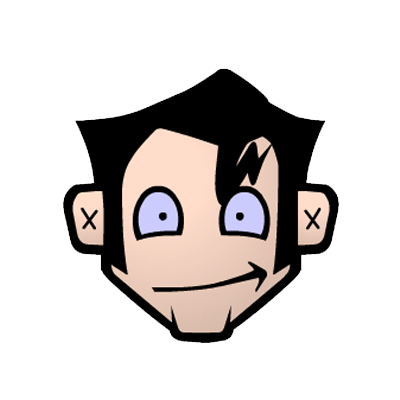
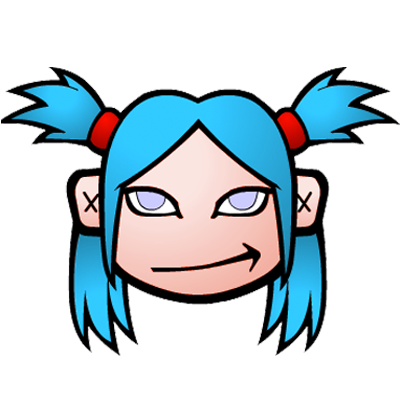
Old commit not pushed

diff --git a/templates/index.html b/templates/index.html
@@ -45,7 +45,7 @@
           <span class="icon"></span>
           <h3>Johnny <em>Free Edition</em></h3>
           <p class="copy">25 year old, interested in computers and technogly.</p>
-          <img src="https://dl.dropboxusercontent.com/u/7968133/profile-a.png" class="img" alt="" />
+          <img src="https://dl.dropboxusercontent.com/u/7968133/profile-b.png" class="img" alt="" />
           <ul>
             <li>Minimal Excercise</li>
             <li>Unamarried</li>
@@ -56,7 +56,7 @@
           <span class="icon"></span>
           <h3>Emily<em>Standard</em></h3>
           <p class="copy">30 year old, single business woman.</p>
-          <img src="https://dl.dropboxusercontent.com/u/7968133/profile-b.png" class="img" alt="" />
+          <img src="https://dl.dropboxusercontent.com/u/7968133/profile-a.png" class="img" alt="" />
           <ul>
             <li>Regular jogger</li>
             <li>non smoker</li>
@@ -80,13 +80,13 @@
       </div>
       <div class="container">
         <div class="col-md-4">
-          <p><a class="btn btn-primary btn-lg continue" href="">Free</a></p>
+          <p><a class="btn btn-primary btn-lg continue2" href="/">Free</a></p>
         </div>
         <div class="col-md-4">
-          <p><a class="btn btn-primary btn-lg continue" href="">Buy $$$</a></p>
+          <p><a class="btn btn-primary btn-lg continue2" href="/">Buy $$$</a></p>
         </div>
         <div class="col-md-4">
-          <p><a class="btn btn-primary btn-lg continue" href="">Buy $$$$$$</a></p>
+          <p><a class="btn btn-primary btn-lg continue2" href="/">Buy $$$$$$</a></p>
         </div>
       </div>
     </div>

diff --git a/static/css/base.css b/static/css/base.css
@@ -1,6 +1,9 @@
 html, body
 {
-    background: #94C7A8;
+    background: rgb(177,235,196);
+    background: -moz-radial-gradient(center, ellipse cover, rgba(177,235,196,1) 0%, rgba(148,199,165,1) 99%);
+    background: -webkit-gradient(radial, center center, 0px, center center, 100%, color-stop(0%,rgba(177,235,196,1)), color-stop(99%,rgba(148,199,165,1)));
+    background: -webkit-radial-gradient(center, ellipse cover, rgba(177,235,196,1) 0%,rgba(148,199,165,1) 99%);
 }
 
 .page {
@@ -30,7 +33,10 @@ em {
     min-height: 100%;
     text-align: center;
     display: block;
-    background: #94C7A8;
+    background: rgb(177,235,196);
+    background: -moz-radial-gradient(center, ellipse cover, rgba(177,235,196,1) 0%, rgba(148,199,165,1) 99%);
+    background: -webkit-gradient(radial, center center, 0px, center center, 100%, color-stop(0%,rgba(177,235,196,1)), color-stop(99%,rgba(148,199,165,1)));
+    background: -webkit-radial-gradient(center, ellipse cover, rgba(177,235,196,1) 0%,rgba(148,199,165,1) 99%);
 }
 
 #results {
@@ -42,11 +48,11 @@ em {
 }
 
 p.copy {
-    text-align: left;
+    text-align: center;
     font-size: 1.2em;
 }
 
-.continue {
+.continue, .continue2 {
     background: #876C6D;
     border-color: #5E4949;
     margin-top: 20px;

diff --git a/static/js/base.js b/static/js/base.js
@@ -34,8 +34,9 @@ $('#getquery').click(function(){
         $('#loading').addClass('active');
 
         $.get('/modality/' + $query , function(data) {
+            console.log(data);
+            modality = +data;
             setTimeout(function() {
-                modality = +data;
                 $('.active').removeClass('active');
                 $('#results').addClass('active');
 
@@ -47,7 +48,7 @@ $('#getquery').click(function(){
                     console.log(2);
                     person = 2;
                 }
-                if(modality > -0.33 && modality <= -1) {
+                if(modality > 0.33 && modality <= 1) {
                     console.log(3);
                     person = 3;
                 }
